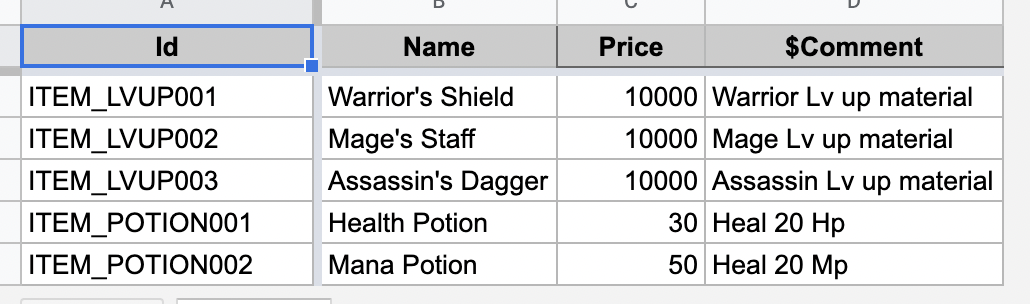
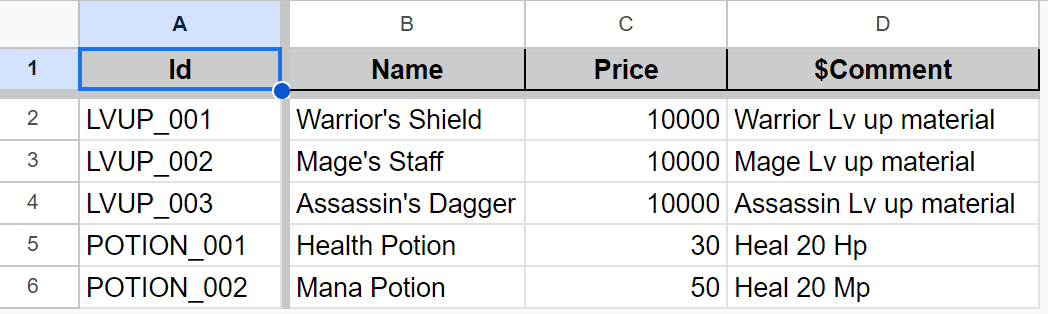
#31 update descriptions

diff --git a/README.md b/README.md
@@ -84,25 +84,25 @@ Before you start, we want to mention that if you have problem or need help, you 
 We appreciate any contribution. Please create [issue](https://github.com/cathei/BakingSheet/issues) for bugs or feature requests. Any contribution to feature, test case, or documentation through [pull requests](https://github.com/cathei/BakingSheet/pulls) are welcome! Any blog posts, articles, shares about this project will be greatful!
 
 ## First Step
-BakingSheet manages datasheet schema as C# code. `Sheet` class represents a table and `SheetRow` class represents a record. Below is example content of file `Items.xlsx`. Also, any column starts with `$` will be considered as comment and ignored.
+BakingSheet manages datasheet schema as C# code. `Sheet` class represents a table and `SheetRow` class represents a record. Below is example content of file `Consumables` page in `MySheets.xlsx`. Also, any column starts with `$` will be considered as comment and ignored.
 
 ![Plain Sample](.github/images/sample_plain.png)
 
 <details>
 <summary>Markdown version</summary>
 
-| Id             | Name              | Price | $Comment   |
-|----------------|-------------------|-------|------------|
-| ITEM_LVUP001   | Warrior's Shield  | 10000 | Warrior Lv up material |
-| ITEM_LVUP002   | Mage's Staff      | 10000 | Mage Lv up material |
-| ITEM_LVUP003   | Assassin's Dagger | 10000 | Assassin Lv up material |
-| ITEM_POTION001 | Health Potion     | 30    | Heal 20 Hp |
-| ITEM_POTION002 | Mana Potion       | 50    | Heal 20 Mp |
+| Id         | Name              | Price | $Comment   |
+|------------|-------------------|-------|------------|
+| LVUP_001   | Warrior's Shield  | 10000 | Warrior Lv up material |
+| LVUP_002   | Mage's Staff      | 10000 | Mage Lv up material |
+| LVUP_003   | Assassin's Dagger | 10000 | Assassin Lv up material |
+| POTION_001 | Health Potion     | 30    | Heal 20 Hp |
+| POTION_002 | Mana Potion       | 50    | Heal 20 Mp |
 </details>
 
 Code below is corresponding BakingSheet class.
 ```csharp
-public class ItemSheet : Sheet<ItemSheet.Row>
+public class ConsumableSheet : Sheet<ConsumableSheet.Row>
 {
     public class Row : SheetRow
     {
@@ -112,7 +112,7 @@ public class ItemSheet : Sheet<ItemSheet.Row>
     }
 }
 ```
-You can see there are two classes, `ItemSheet` and `ItemSheet.Row`. Each represents a page of sheet and a single row. `ItemSheet` is surrounding `Row` class (It is not forced but recommended convention). Important part is they will inherit from `Sheet<TRow>` and `SheetRow`.
+You can see there are two classes, `ConsumableSheet` and `ConsumableSheet.Row`. Each represents a page of sheet and a single row. `ConsumableSheet` is surrounding `Row` class (It is not forced but recommended convention). Important part is they will inherit from `Sheet<TRow>` and `SheetRow`.
 
 `Id` column is mandatory, so it is already defined in base `SheetRow` class. `Id` is `string` by default, but you can change type. See [this section](#using-non-string-column-as-id) to use non-string type for `Id`.
 
@@ -123,9 +123,9 @@ public class SheetContainer : SheetContainerBase
     public SheetContainer(Microsoft.Extensions.Logging.ILogger logger) : base(logger) {}
 
     // property name matches with corresponding sheet name
-    // for .xlsx or google sheet, it is name of the sheet tab in the workbook
-    // for .csv or .json, it is name of the file
-    public ItemSheet Items { get; private set; }
+    // for .xlsx or google sheet, **property name matches with the name of sheet tab in workbook**
+    // for .csv or .json, **property name matches with the name of file**
+    public ConsumableSheet Consumables { get; private set; }
 
     // add other sheets as you extend your project
     public CharacterSheet Characters { get; private set; }
@@ -230,11 +230,11 @@ You can extend `JsonSheetConverter` to customize serialization process. For exam
 > If you are using `StreamingAssets` on Android, also see [Reading From StreamingAssets](docs/streaming-assets.md).
 
 ## Accessing Row
-Now you have `SheetContainer` loaded from your data, accessing to the row is fairly simple. Below code shows how to access specific `ItemSheet.Row`.
+Now you have `SheetContainer` loaded from your data, accessing to the row is fairly simple. Below code shows how to access specific `ConsumableSheet.Row`.
 ```csharp
-// same as sheetContainer.Items.Find("ITEM_LVUP003");
+// same as sheetContainer.Consumables.Find("LVUP_003");
 // returns null if no row found
-var row = sheetContainer.Items["ITEM_LVUP003"];
+var row = sheetContainer.Consumables["LVUP_003"];
 
 // print "Assassin's dagger"
 logger.LogInformation(row.Name);
@@ -243,12 +243,12 @@ logger.LogInformation(row.Name);
 `Sheet<T>` is `KeyedCollection`, you can loop through it and order is guaranteed to be as same as your spreadsheet. Plus of course you can use all benefits of `IEnumerable<T>`.
 ```csharp
 // loop through all rows and print their names
-foreach (var row in sheetContainer.Items)
+foreach (var row in sheetContainer.Consumables)
     logger.LogInformation(row.Name);
 
-// loop through item ids that price over 5000
-foreach (var itemId in sheetContainer.Items.Where(row => row.Price > 5000).Select(row => row.Id))
-    logger.LogInformation(itemId);
+// loop through consumable ids that price over 5000
+foreach (var consumableId in sheetContainer.Consumables.Where(row => row.Price > 5000).Select(row => row.Id))
+    logger.LogInformation(consumableId);
 ```
 
 ## Using List Column
@@ -259,22 +259,22 @@ List columns are used for simple array.
 <details>
 <summary>Flat header</summary>
 
-| Id         | Name          | Monsters:1 | Monsters:2 | Monsters:3 | Items:1        | Items:2      |
-| ---------- | ------------- | ---------- | ---------- | ---------- | -------------- | ------------ |
-| DUNGEON001 | Easy Field    | MONSTER001 |            |            | ITEM_POTION001 | ITEM_LVUP001 |
-| DUNGEON002 | Expert Zone   | MONSTER001 | MONSTER002 |            | ITEM_POTION002 | ITEM_LVUP002 |
-| DUNGEON003 | Dragon’s Nest | MONSTER003 | MONSTER004 | MONSTER005 | ITEM_LVUP003   |              |
+| Id         | Name          | Monsters:1 | Monsters:2 | Monsters:3 | Loots:1    | Loots:2  |
+| ---------- | ------------- | ---------- | ---------- | ---------- |------------|----------|
+| DUNGEON001 | Easy Field    | MONSTER001 |            |            | POTION_001 | LVUP_001 |
+| DUNGEON002 | Expert Zone   | MONSTER001 | MONSTER002 |            | POTION_002 | LVUP_002 |
+| DUNGEON003 | Dragon’s Nest | MONSTER003 | MONSTER004 | MONSTER005 | LVUP_003   |          |
 </details>
 
 <details>
 <summary>Split header</summary>
 
-| Id         | Name          | Monsters   |            |            | Items          |              |
-|------------|---------------|------------|------------|------------|----------------|--------------|
-|            |               | 1          | 2          | 3          | 1              | 2            |
-| DUNGEON001 | Easy Field    | MONSTER001 |            |            | ITEM_POTION001 | ITEM_LVUP001 |
-| DUNGEON002 | Expert Zone   | MONSTER001 | MONSTER002 |            | ITEM_POTION002 | ITEM_LVUP002 |
-| DUNGEON003 | Dragon’s Nest | MONSTER003 | MONSTER004 | MONSTER005 | ITEM_LVUP003   |              |
+| Id         | Name          | Monsters   |            |            | Loots      |          |
+|------------|---------------|------------|------------|------------|------------|----------|
+|            |               | 1          | 2          | 3          | 1          | 2        |
+| DUNGEON001 | Easy Field    | MONSTER001 |            |            | POTION_001 | LVUP_001 |
+| DUNGEON002 | Expert Zone   | MONSTER001 | MONSTER002 |            | POTION_002 | LVUP_002 |
+| DUNGEON003 | Dragon’s Nest | MONSTER003 | MONSTER004 | MONSTER005 | LVUP_003   |          |
 </details>
 
 ```csharp
@@ -287,7 +287,7 @@ public class DungeonSheet : Sheet<DungeonSheet.Row>
         // you can use any supported type as list
         // to know more about sheet reference types, see cross-sheet reference section
         public List<MonsterSheet.Reference> Monsters { get; private set; }
-        public List<ItemSheet.Reference> Items { get; private set; }
+        public List<ConsumableSheet.Reference> Loots { get; private set; }
     }
 }
 ```
@@ -395,23 +395,23 @@ Row arrays are used for 2-dimentional structure. Below is example content of fil
 <details>
 <summary>Markdown version</summary>
 
-| Id      | Name     | Strength | Inteligence | Vitality | StatMultiplier | RequiredExp | RequiredItem |
-|---------|----------|----------|-------------|----------|----------------|-------------|--------------|
-| HERO001 | Warrior  | 100      | 80          | 140      | 1              | 0           |              |
-|         |          |          |             |          | 1.2            | 10          |              |
-|         |          |          |             |          | 1.4            | 20          |              |
-|         |          |          |             |          | 1.6            | 40          |              |
-|         |          |          |             |          | 2              | 100         | ITEM_LVUP001 |
-| HERO002 | Mage     | 60       | 160         | 80       | 1              | 0           |              |
-|         |          |          |             |          | 1.2            | 10          |              |
-|         |          |          |             |          | 1.4            | 20          |              |
-|         |          |          |             |          | 1.6            | 40          |              |
-|         |          |          |             |          | 2              | 100         | ITEM_LVUP002 |
-| HERO003 | Assassin | 140      | 100         | 80       | 1              | 0           |              |
-|         |          |          |             |          | 1.2            | 10          |              |
-|         |          |          |             |          | 1.4            | 20          |              |
-|         |          |          |             |          | 1.6            | 40          |              |
-|         |          |          |             |          | 2              | 100         | ITEM_LVUP003 |
+| Id      | Name     | Strength | Inteligence | Vitality | StatMultiplier | RequiredExp | RequiredMaterial |
+|---------|----------|----------|-------------|----------|----------------|-------------|------------------|
+| HERO001 | Warrior  | 100      | 80          | 140      | 1              | 0           |                  |
+|         |          |          |             |          | 1.2            | 10          |                  |
+|         |          |          |             |          | 1.4            | 20          |                  |
+|         |          |          |             |          | 1.6            | 40          |                  |
+|         |          |          |             |          | 2              | 100         | LVUP_001         |
+| HERO002 | Mage     | 60       | 160         | 80       | 1              | 0           |                  |
+|         |          |          |             |          | 1.2            | 10          |                  |
+|         |          |          |             |          | 1.4            | 20          |                  |
+|         |          |          |             |          | 1.6            | 40          |                  |
+|         |          |          |             |          | 2              | 100         | LVUP_002         |
+| HERO003 | Assassin | 140      | 100         | 80       | 1              | 0           |                  |
+|         |          |          |             |          | 1.2            | 10          |                  |
+|         |          |          |             |          | 1.4            | 20          |                  |
+|         |          |          |             |          | 1.6            | 40          |                  |
+|         |          |          |             |          | 2              | 100         | LVUP_003         |
 </details>
 
 Rows without `Id` is considered as part of previous row. You can merge the non-array cells to make it visually intuitive. Below corresponding code shows how to define row arrays.
@@ -441,7 +441,7 @@ public class HeroSheet : Sheet<HeroSheet.Row>
     {
         public float StatMultiplier { get; private set; }
         public int RequiredExp { get; private set; }
-        public string RequiredItem { get; private set; }
+        public string RequiredMaterial { get; private set; }
     }
 }
 ```
@@ -451,7 +451,7 @@ public class HeroSheet : Sheet<HeroSheet.Row>
 > It is worth mention you can use `VerticalList<T>` to cover the case you want to vertically extend your `List<T>` without pairing them as `Elem`. Though we recommend to split the sheet in that case if possible.
 
 ## Using Cross-Sheet Reference
-Below code shows how to replace `string RequiredItem` to `ItemSheet.Reference RequiredItem` to add extra reliablity. `Sheet<TKey, TRow>.Reference` type is serialized as `TKey`, and verifies that row with same id exists in the sheet.
+Below code shows how to replace `string RequiredMaterial` to `ConsumableSheet.Reference RequiredMaterial` to add extra reliablity. `Sheet<TKey, TRow>.Reference` type is serialized as `TKey`, and verifies that row with same id exists in the sheet.
 
 ```csharp
 public class HeroSheet : Sheet<HeroSheet.Row>
@@ -465,7 +465,7 @@ public class HeroSheet : Sheet<HeroSheet.Row>
     {
         public float StatMultiplier { get; private set; }
         public int RequiredExp { get; private set; }
-        public ItemSheet.Reference RequiredItem { get; private set; }
+        public ConsumableSheet.Reference RequiredMaterial { get; private set; }
     }
 }
 ```
@@ -477,21 +477,21 @@ public class SheetContainer : SheetContainerBase
 
     // use name of each matching sheet name from source
     public HeroSheet Heroes { get; private set; }
-    public ItemSheet Items { get; private set; }
+    public ConsumableSheet Consumables { get; private set; }
 }
 ```
-Both `ItemSheet` and `HeroSheet` must be the properties on same `SheetContainer` class to reference each other's row.
+Both `ConsumableSheet` and `HeroSheet` must be the properties on same `SheetContainer` class to reference each other's row.
 
-Now, not only error message will pop up when `RequiredItem` doesn't exist in `SheetContainer.Items`, you can access `ItemSheet.Row` directly through it.
+Now, not only error message will pop up when `RequiredMaterial` doesn't exist in `SheetContainer.Consumables`, you can access `ConsumableSheet.Row` directly through it.
 
 ```csharp
 var heroRow = sheetContainer.Heroes["HERO001"];
 
-// ITEM_LVUP001 from Items sheet
-var itemRow = heroRow.GetLevel(5).RequiredItem.Ref;
+// LVUP_001 from Consumables sheet
+var consumableRow = heroRow.GetLevel(5).RequiredMaterial.Ref;
 
 // print "Warrior's Shield"
-logger.LogInformation(itemRow.Name);
+logger.LogInformation(consumableRow.Name);
 ```
 
 ## Using Non-String Column as Id
